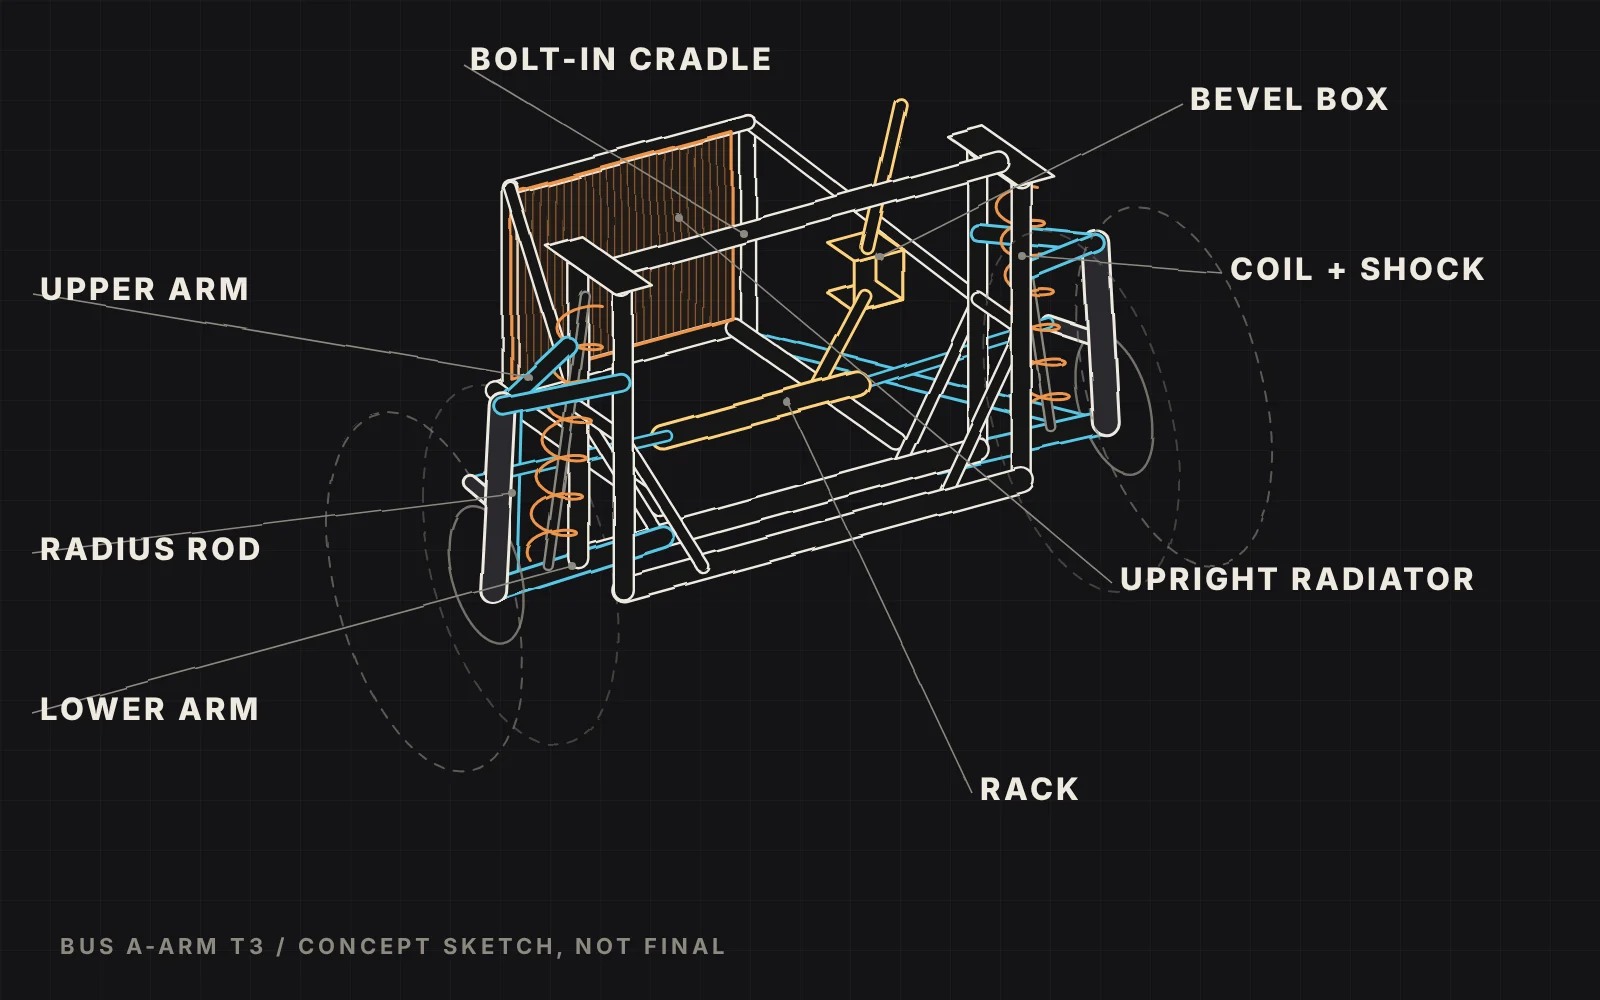
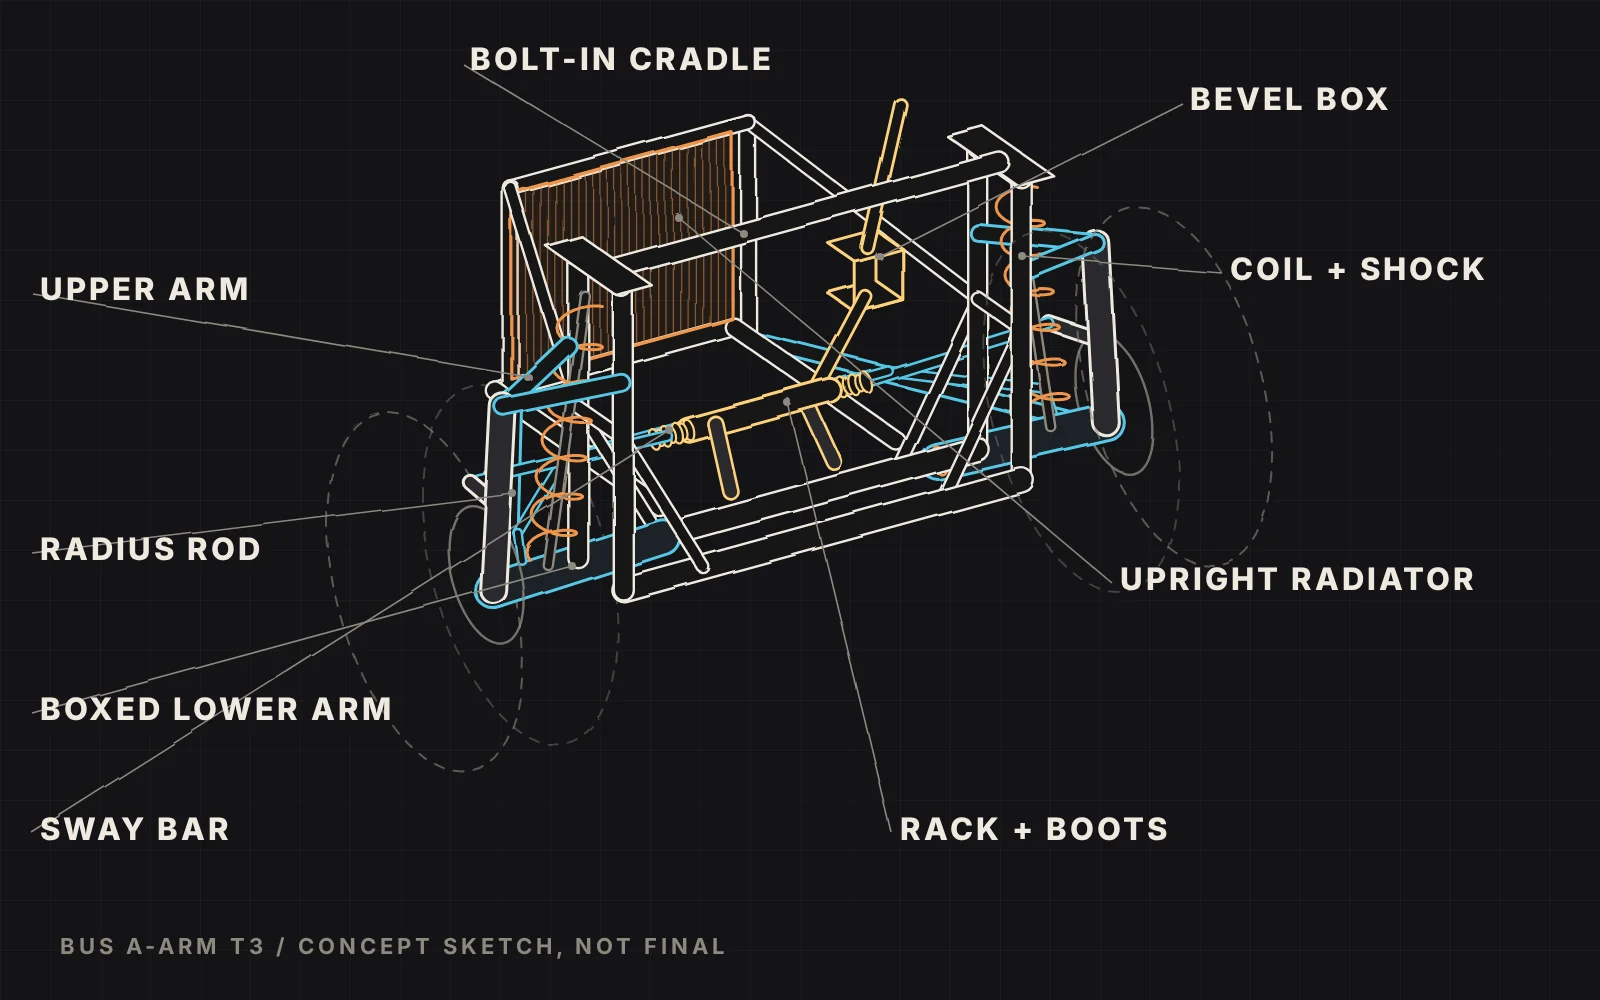
Bus A-Arm T3 sketch: boxed lower arm, sway bar, rack boots, per the undercarriage video

diff --git a/index.html b/index.html
@@ -217,7 +217,7 @@ footer .ig{color:var(--cyan);font-weight:800;text-decoration:none;letter-spacing
         </ul>
       </article>
       <article class="kit rise">
-        <img class="kimg" src="img/kit-a-arm-t3.webp" alt="Concept sketch of the Bus A-Arm T3 front suspension: a bolt-in cradle with upper and lower arms, radius rods on their own subframe section, an upright radiator, a rack and a bevel box" loading="lazy">
+        <img class="kimg" src="img/kit-a-arm-t3.webp" alt="Concept sketch of the Bus A-Arm T3 front suspension: a bolt-in cradle with upper arms, boxed lower arms, radius rods on their own subframe section, a sway bar, an upright radiator, a rack and a bevel box" loading="lazy">
         <span class="kicker">Suspension</span>
         <h3 class="d">Bus A-Arm T3</h3>
         <p>Bolt-on Vanagon front suspension for the Bay, with an upgraded cooling pack.</p>
